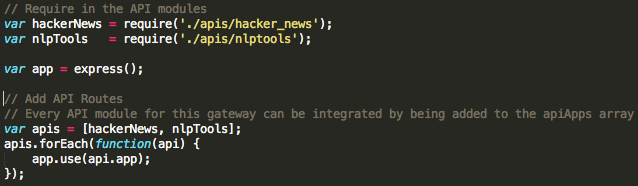
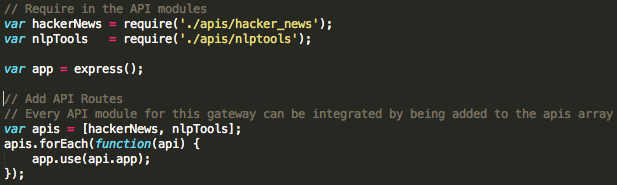
updated readme with usage

diff --git a/app.js b/app.js
@@ -27,7 +27,7 @@ app.use(app.router);
 app.use(express.static(path.join(__dirname, 'public')));
 
 // Add API Routes
-// Every API module for this gateway can be integrated by being added to the apiApps array
+// Every API module for this gateway can be integrated by being added to the apis array
 var apis = [hackerNews, nlpTools];
 apis.forEach(function(api) {
 	app.use(api.app);

diff --git a/README.md b/README.md
@@ -14,11 +14,11 @@ My implementation has been created with an eye on two key properties:
 
 To run the app, you would just need to go into the root directory, and run `node app.js`, assuming you have node.js installed on your machine.
 
-There are 3 APIs that this gateway connects with. They are the [Hacker News API](https://github.com/HackerNews/API), [Clipped's Summarization API](http://www.clipped.me/api.html), and a [Sentiment Analysis API](http://sentiment.vivekn.com/docs/api/). These APIs were chosen because their lack of reliance on API keys, lack of hard set usage restrictions, and ease of use. In addition to these, there is also an endpoint to give usage frequency for each of the API endpoints.
+There are 3 APIs that this gateway connects with. They are the [Hacker News API](https://github.com/HackerNews/API), [Clipped's Summarization API](http://www.clipped.me/api.html), and a [Sentiment Analysis API](http://sentiment.vivekn.com/docs/api/). These APIs were chosen because their lack of reliance on API keys, lack of hard set usage restrictions, and ease of use. In addition to these, there is also an endpoint to give usage frequency for each of the API endpoints. Since this is a proxy gateway, the responses do not have a consistent format. The responses are of the format that is specified in the documentation for each of the APIs.
 
 These APIs can be accessed as follows
 
-### Hacker News API
+### Hacker News API Gateway
 
 - Top Stories
 	- `GET`
@@ -26,8 +26,65 @@ These APIs can be accessed as follows
 	- Response
 		- Retuns a JSON array of Numbers. Numbers correspond to item IDs for articles on Hacker News. Numbers are indexed by how they are trending on hacker news.
 
-- 
-	
+- Get Item
+	- `GET`
+	- `/hacker_news/item/:itemID`
+	- Response
+		- Success
+			- Returns JSON object containing info about item selected by itemID.
+		- Failure
+			- Returns JSON object with `"error"` attribute explaining details of error.
+
+- Get Username
+	- `GET`
+	- `/hacker_news/user/:username`
+	- Response
+		- Success
+			- Returns JSON object containing info about user selected by username
+		- Failure
+			- Returns JSON object with `"error"` attribute explaining details of error.
+
+### Clipped's Summarization API Gateway
+- Summarize Article
+	- `GET`
+	- `/nlptools/summarize?url=[link to textual content]`
+	- Response
+		- Success
+			- Returns JSON object containing `"summary"` attribute which holds an array of sentences from URL that summarizes the article at it.
+		- Failure
+			- Returns JSON object with `"error"` attribute explaining details of error.
+			- If error is from Clipped API, it will not return JSON object. Must put try-catch around JSON parser to catch this error.
+
+### Sentiment Analysis API Gateway
+- Sentiment Analysis of Single Paragraph
+	- `POST`
+	- `/nlptools/sentiment/single`
+	- Request
+		- Request body must contain JSON object with `"txt"` attribute that has the string of text to be analyzed
+	- Response
+		- Success
+			- Returns JSON object containing `"result"` attribute which holds another JSON object. `"result"` object contains  `"sentiment"` attribute which indicates the sentiment analysis of the paragraph ("Positive", "Neutral", "Negative"). `"result"` object also contains `"confidence"` attribute which indicates the confidence value of whether the sentiment analysis given is corrent (`Number` from 0-100).
+		- Failure
+			- Returns JSON object with `"error"` attribute explaining details of error. 
+
+- Sentiment Analysis of Batch of Paragraphs
+	- `POST`
+	- `/nlptools/sentiment/batch`
+	- Request
+		- Request body must contain JSON array of texts that need to be analyzed. 
+	- Response
+		- Success
+			- Returns array of JSON objects. Each JSON object contains sentiment analysis for text at corresponding index from request body's text array. Each JSON object contains `"sentiment"` attribute which indicates the sentiment analysis of the paragraph ("Positive", "Neutral", "Negative") and object also contains `"confidence"` attribute which indicates the confidence value of whether the sentiment analysis given is corrent (`Number` from 0-100).
+		- Failure
+			- Returns JSON object with `"error"` attribute explaining details of error.
+
+### Usage Hit Counts
+- Get API Hit Counts
+	- `GET`
+	- `/usage/:api`
+	- Response
+		- Returns JSON object with attributes corresponding to endpoints to that API, with their values being the hit count for each endpoint.
+
 ## Implementation Details
 I will discuss the implementation details by walking through what I did to acheive the two goals of modularity and extensibility.
 
